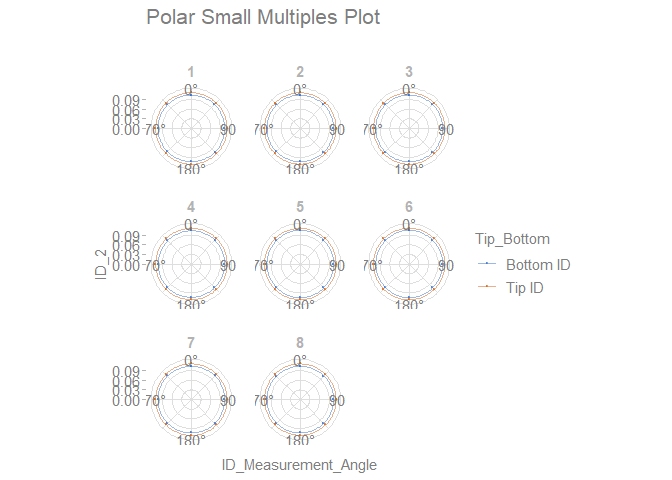
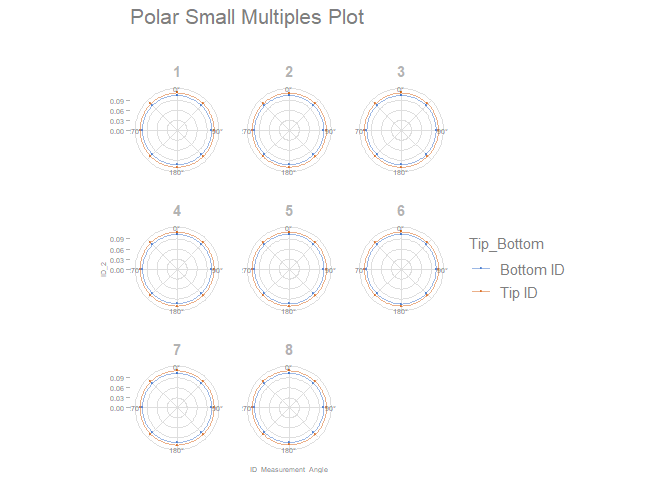
updated polar small multiples function

diff --git a/README.md b/README.md
@@ -83,7 +83,10 @@ library(ggh4x)
 
 ``` r
 multi_vari_data %>% 
-  draw_multivari_plot(response = force, factor_1 = cycle, factor_2 = fixture, factor_3 = line)
+  draw_multivari_plot(response = force, 
+                      factor_1 = cycle, 
+                      factor_2 = fixture, 
+                      factor_3 = line)
 ```
 
 <img src="man/figures/README-example-1.png" width="100%" />
@@ -93,7 +96,9 @@ library(sherlock)
 library(ggh4x)
 
 multi_vari_data_2 %>% 
-  draw_multivari_plot(response = Length, factor_1 = Part, factor_2 = Operator, plot_means = TRUE)
+  draw_multivari_plot(response = Length, 
+                      factor_1 = Part, 
+                      factor_2 = Operator, plot_means = TRUE)
 ```
 
 <img src="man/figures/README-unnamed-chunk-3-1.png" width="100%" />
@@ -105,7 +110,8 @@ polar_small_multiples_data %>%
                              grouping_var   = Tip_Bottom, 
                              faceting_var_1 = Mold_Cavity_Number,
                              point_size     = 0.5, 
-                             connect_with_lines = TRUE)
+                             connect_with_lines = TRUE, 
+                             label_text_size = 5)
 ```
 
 <img src="man/figures/README-unnamed-chunk-4-1.png" width="100%" />
